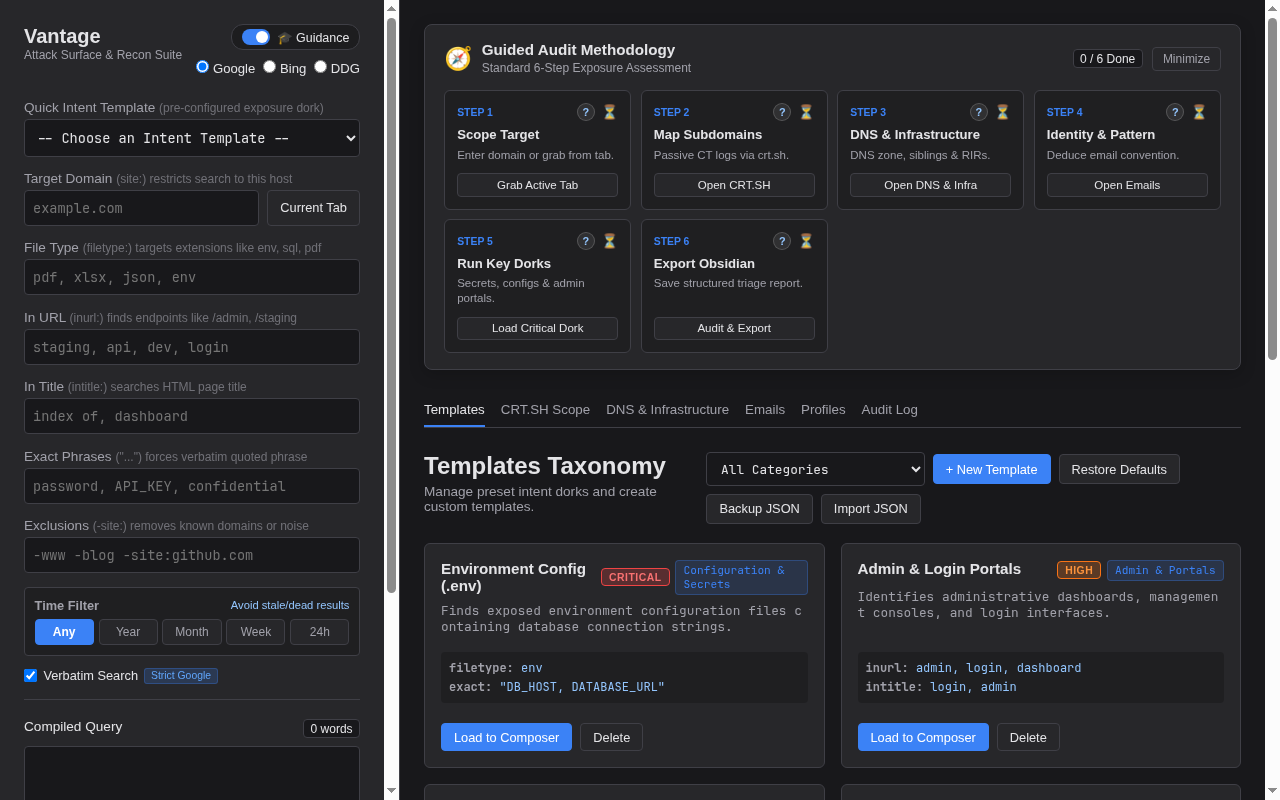
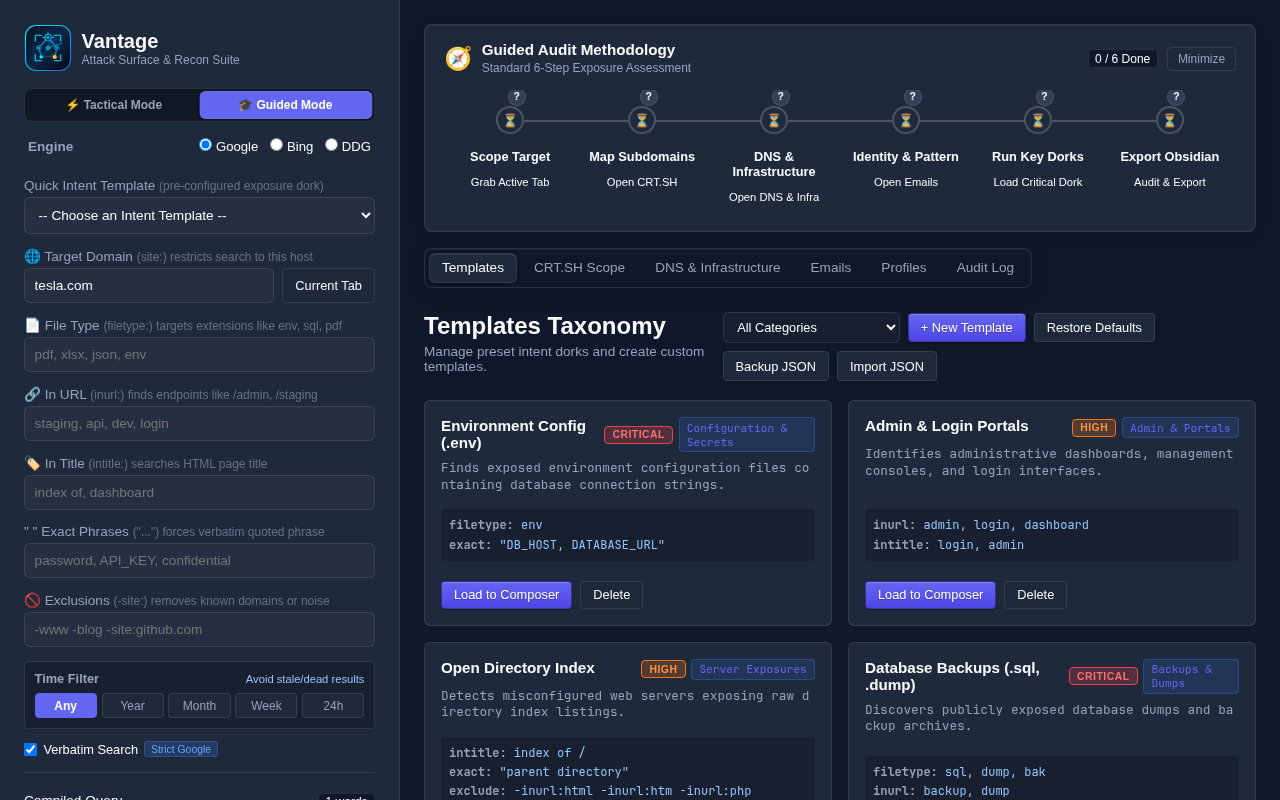
docs: update v2.0 screenshots and README with Tactical Mode

diff --git a/README.md b/README.md
@@ -15,20 +15,27 @@ All discovery is **100% passive and zero-touch**—Vantage queries public third-
 
 ## 📸 Workstation Screenshots
 
-### 1. Attack Surface Reconnaissance & Dork Composer
+### 1. Guided Mode: 6-Step Methodology & Templates Taxonomy
 ![Vantage Dashboard Overview](screenshots/vantage_dashboard.png)
 
-### 2. CRT.SH Certificate Scope & Subdomain Subtraction
+### 2. Tactical Mode: Power-User Omnibox & High-Speed Recon (v2.0)
+![Vantage Tactical Mode](screenshots/vantage_tactical.png)
+
+### 3. CRT.SH Certificate Scope & Subdomain Subtraction
 ![Vantage Subdomain Enumeration](screenshots/vantage_subdomains.png)
 
-### 3. DNS Zone Intelligence & Cloud/SaaS Infrastructure
+### 4. DNS Zone Intelligence & Cloud/SaaS Infrastructure
 ![Vantage DNS & Infrastructure](screenshots/vantage_dns.png)
 
 ---
 
 ## ✨ Key Features
 
-### 🧭 1. Guided 6-Step Audit Methodology
+### ⚡ 1. Dual-Audience Workflow: Guided Mode vs. Tactical Mode (New in v2.0)
+- **🎓 Guided Mode**: Built-in 6-step illuminated timeline wizard, interactive "What & Why" educational modals, and granular composer inputs with real-time syntax linting—designed to teach structured reconnaissance tradecraft to junior analysts.
+- **⚡ Tactical Mode**: Training wheels off. Strips out the methodology stepper to reclaim full vertical screen real estate, and replaces the multi-field composer with a direct **Raw Query Omnibox** for rapid, terminal-like threat-hunting execution.
+
+### 🧭 2. Guided 6-Step Audit Methodology
 A built-in tactical roadmap taking analysts step-by-step through a standard reconnaissance lifecycle:
 1. **Scope Target**: Extract root apex domain and baseline boundaries from the active tab.
 2. **Map Subdomains**: Query public Certificate Transparency (CT) logs via `crt.sh`.
@@ -39,23 +46,23 @@ A built-in tactical roadmap taking analysts step-by-step through a standard reco
 
 *Includes interactive "What & Why" educational modals on every step for analysts building tradecraft.*
 
-### 🏢 2. Multi-Domain SAN Sibling Discovery
+### 🏢 3. Multi-Domain SAN Sibling Discovery
 Cross-correlates multi-domain SSL/TLS certificates to automatically surface corporate sibling apexes, sister subsidiaries, and acquired brands (e.g. discovering subsidiary apexes and out-of-band SaaS domains from primary certificates).
 
-### 🌐 3. Regional Internet Registry (RIR) Netblocks
+### 🌐 4. Regional Internet Registry (RIR) Netblocks
 Directly queries ARIN and RIPE RDAP registries to discover corporate IP blocks registered directly to the target organization, complete with PTR reverse DNS probing and SOA zone master identification.
 
-### ⚡ 4. Shodan InternetDB & BYOK Integration
+### ⚡ 5. Shodan InternetDB & BYOK Integration
 - **InternetDB (Free & Built-in)**: Instant host intelligence with zero API key required—surfaces open ports, service tags, and known vulnerabilities (CVEs).
 - **Personal Shodan BYOK**: Seamless drawer allowing analysts to connect their personal Shodan API key for deep banner inspection, OS fingerprinting, and full host history.
 
-### 🛡 5. Precision Search Syntax Builder & Linter
+### 🛡 6. Precision Search Syntax Builder & Linter
 - Real-time compiler for Google, Bing, and DuckDuckGo search syntax.
 - Built-in linter catching common operator syntax traps, whitespace bugs, and quote errors.
 - Temporal filtering (`24h`, `week`, `month`, `year`) and Google Verbatim mode (`&tbs=li:1`) toggles.
 - Pre-configured template library categorized by risk (Critical, High, Medium, Low).
 
-### 📝 6. Obsidian Vault Triage & Export
+### 📝 7. Obsidian Vault Triage & Export
 One-click export of discovered findings, analyst notes, and remediation status into clean, pre-tagged Markdown notes ready to drop straight into your vulnerability management or triage vault.
 
 ---
@@ -87,8 +94,8 @@ npm run build
 ```
 
 This creates:
-- `dist/vantage-firefox-v1.1.5.zip` — Ready for upload to the [Firefox Add-on Developer Hub](https://addons.mozilla.org/developers/).
-- `dist/vantage-chrome-v1.1.5.zip` — Ready for upload to the [Chrome Web Store Developer Dashboard](https://chrome.google.com/webstore/devconsole).
+- `dist/vantage-firefox-v2.0.0.zip` — Ready for upload to the [Firefox Add-on Developer Hub](https://addons.mozilla.org/developers/).
+- `dist/vantage-chrome-v2.0.0.zip` — Ready for upload to the [Chrome Web Store Developer Dashboard](https://chrome.google.com/webstore/devconsole).
 - `dist/firefox/` & `dist/chrome/` — Unpacked development trees.
 
 See [DISTRIBUTION.md](DISTRIBUTION.md) for full store submission guidance and permission justifications.
